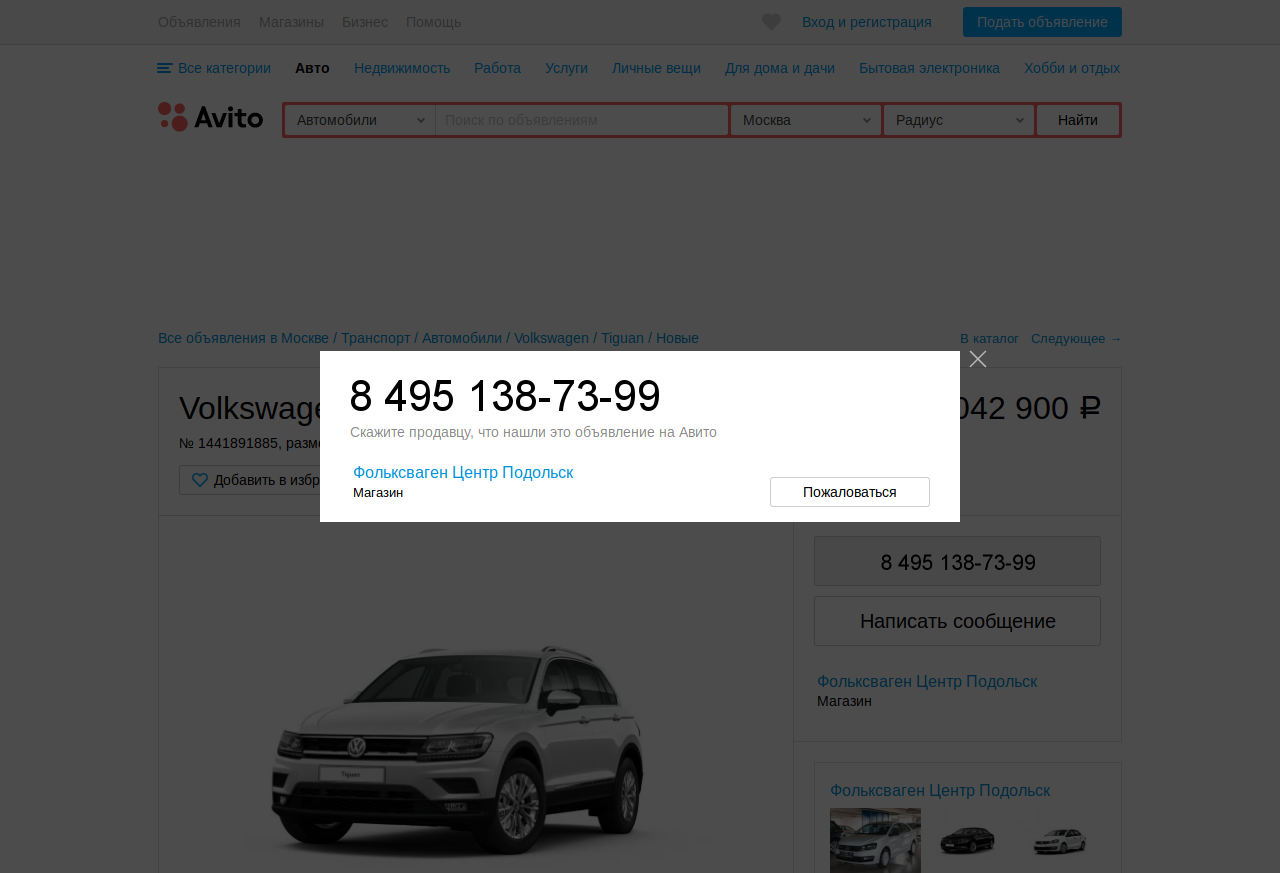
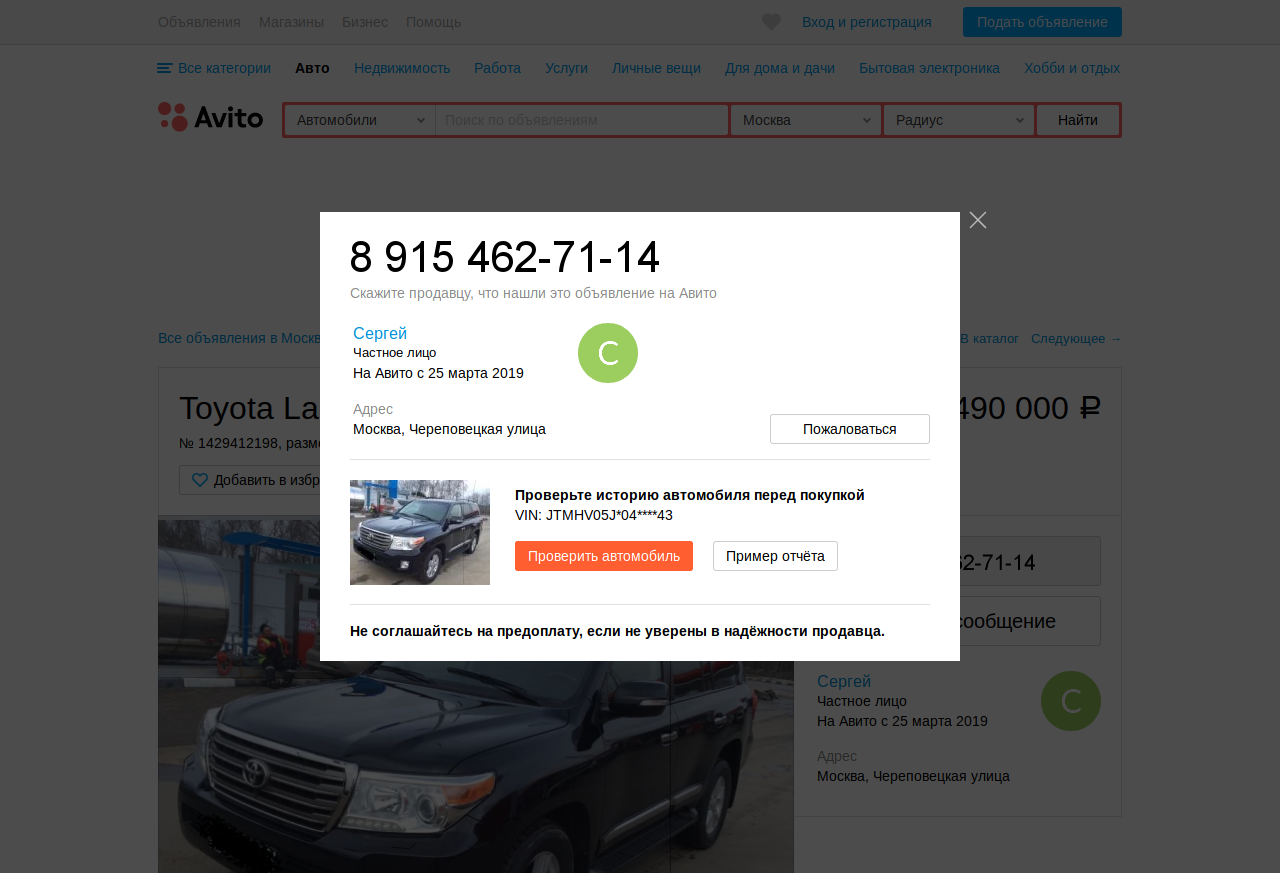
1231230

diff --git a/python/avito/pars_all/avito_all.py b/python/avito/pars_all/avito_all.py
@@ -18,7 +18,8 @@ def get_total_pages(html):
 def write_csv(data):
     with open('avito.csv', 'a') as f:
         writer = csv.writer(f)
-        writer.writerow( (data['title'],
+        writer.writerow( (data['seller'],
+                          data['title'],
                           data['price'],
                           data['phone'],
                           data['url']) )
@@ -56,19 +57,32 @@ def get_page_data(html):
             width = size['width']
             height = size['height']
             image.crop((x, y, x+width, y+height)).save('tel.gif')
-            driver.quit()
             img = Image.open('tel.gif')
             phone = image_to_string(img)
+
+            image = driver.find_element_by_xpath('//div[@class="seller-info-value"]//*')
+            location = image.location       #dict {'x': 2343, 'y': 23423}
+            size = image.size               #dict {'width': 234, 'height': 234}
+            image = Image.open('screenshot.png')
+            x = location['x']
+            y = location['y']
+            width = size['width']
+            height = size['height']
+            image.crop((x, y, x+width, y+height)).save('name.gif')
+            driver.quit()
+            img = Image.open('name.gif')
+            sellerr = image_to_string(img)
+            driver.quit()
         except:
             phone = ''
         try:
-            seller = driver.find('div', class_='seller-info-value')
+            seller = sellerr
         except:
             seller = '' 
         data = {'title': title,
                 'phone': phone,
                 'price': price,
-                # 'seller': seller,
+                'seller': seller,
                 'url': url}
         print(data)
         write_csv(data)
